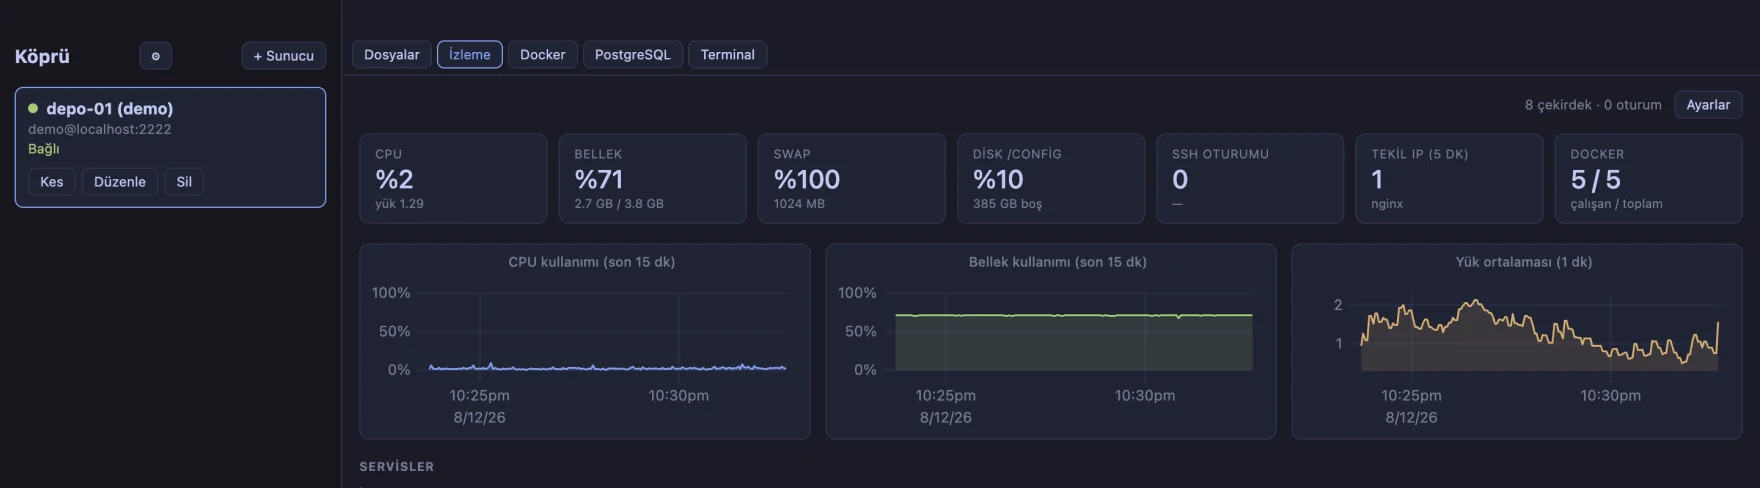
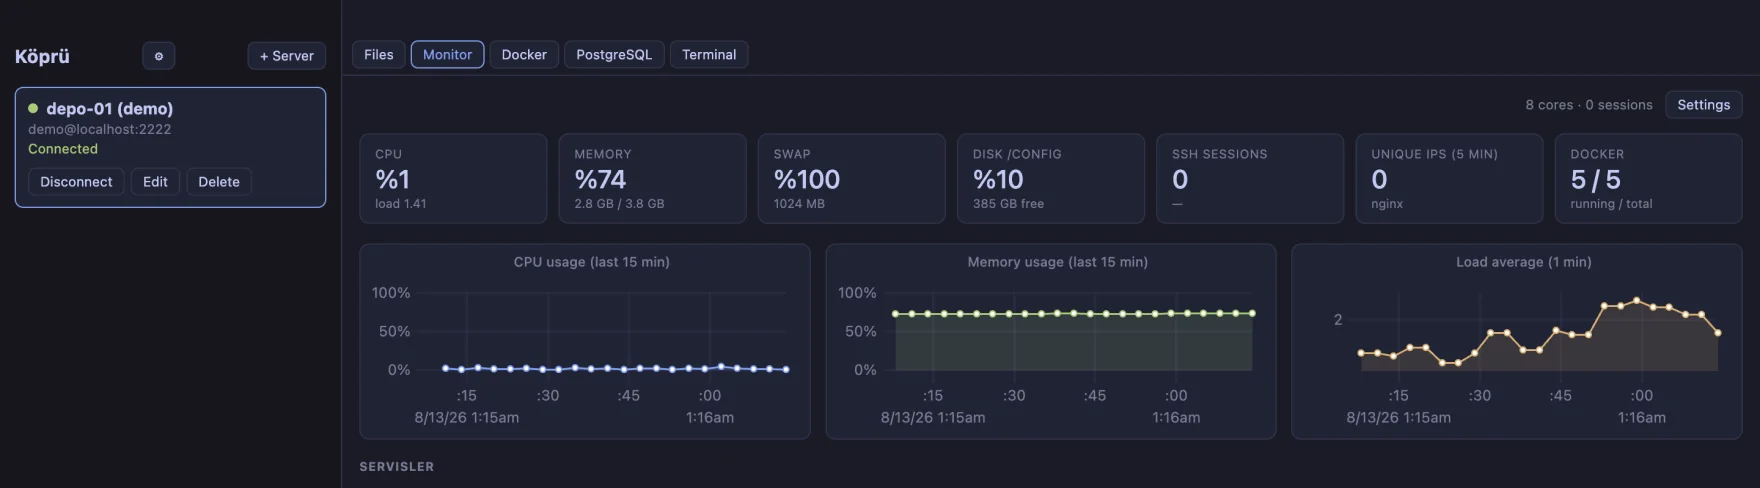
docs+i18n: İngilizce ekran görüntüleri ve son çeviri boşlukları
Depo İngilizce olduğu için ekran görüntüleri de İngilizce arayüzden
yeniden çekildi. Sunucudaki klasör ve tablo adları da İngilizce
(config/, backups/, products, stock_movements) — yarısı Türkçe bir
ekran, İngilizce README'de kopuk duruyordu.

Çekim sırasında yakalanan çeviri boşlukları kapatıldı:
- 'Yedek' sekmesi ve yedek alma metinleri
- Dosya tablosu başlıkları (Ad, Boyut), Yenile düğmesi
- Bağlam panelinde 'gizlendi', 'kr', 'Panoya kopyala', 'Temizle'
- Maskeleme TÜRLERİ (özel anahtar, kimlik bilgisi ataması…) — ortak
  koddaki adlar sözlük anahtarı olarak bırakıldı, gösterim yerinde
  çevriliyor
- Maskeleme ETİKETİ («KÖPRÜ: gizlendi» → redacted): kullanıcının yapay
  zekâya yapıştıracağı metne girdiği için dile uymalı. redact.ts hem ana
  süreçte hem arayüzde koştuğu ve ikisinin de hook'una erişemediği için
  dili bir kanca (redactDilKaynagi) üzerinden soruyor.

Bunların çoğunda Türkçe karakter yoktu (Ad, Boyut, Yedek, Kaydet), bu
yüzden aksan taraması onları kaçırdı. Kesin denetim çalışan uygulamada
yapıldı: İngilizce modda DOM'da kalan tek Türkçe metin uygulamanın kendi
adı.

diff --git a/src/shared/redact.ts b/src/shared/redact.ts
@@ -20,7 +20,30 @@ export interface RedactResult {
   total: number
 }
 
-const MASK = '«KÖPRÜ: gizlendi»'
+/**
+ * Maskeleme etiketi. Kullanıcının yapay zekâya YAPIŞTIRACAĞI metne girdiği
+ * için arayüz diliyle aynı olmalı — İngilizce bir oturumda Türkçe bir işaret
+ * görmek, metnin nereden geldiğini bulanıklaştırır.
+ *
+ * `cevir` doğrudan çağrılıyor: bu dosya hem ana süreçte hem arayüzde koşuyor
+ * ve ikisinin de hook'una erişemez.
+ */
+const MASK_KAYNAK = '«KÖPRÜ: gizlendi»'
+const MASK_EN = '«KÖPRÜ: redacted»'
+
+/**
+ * Aktif dili döndüren kanca. Ana süreç ve arayüz kendi diline bağlar; hiçbiri
+ * bağlamazsa Türkçe kalır — bu dosya dil bilgisi TAŞIMAZ, sorar.
+ */
+let dilKaynagi: () => 'tr' | 'en' = () => 'tr'
+
+export function redactDilKaynagi(kaynak: () => 'tr' | 'en'): void {
+  dilKaynagi = kaynak
+}
+
+function maske(): string {
+  return dilKaynagi() === 'en' ? MASK_EN : MASK_KAYNAK
+}
 
 interface Rule {
   kind: string
@@ -33,7 +56,7 @@ const RULES: Rule[] = [
     // Whole PEM block, not just the header — the key material is the payload.
     kind: 'özel anahtar',
     pattern: /-----BEGIN [A-Z ]*PRIVATE KEY-----[\s\S]*?-----END [A-Z ]*PRIVATE KEY-----/g,
-    replace: () => `-----BEGIN PRIVATE KEY-----\n${MASK}\n-----END PRIVATE KEY-----`,
+    replace: () => `-----BEGIN PRIVATE KEY-----\n${maske()}\n-----END PRIVATE KEY-----`,
   },
   {
     // KEY=value / KEY: value where the name reads like a credential. Captures
@@ -42,33 +65,33 @@ const RULES: Rule[] = [
     kind: 'kimlik bilgisi ataması',
     pattern:
       /^([ \t]*(?:export[ \t]+)?[A-Za-z0-9_.-]*(?:PASS|PWD|SECRET|TOKEN|APIKEY|API_KEY|PRIVATE|CREDENTIAL|AUTH)[A-Za-z0-9_.-]*)([ \t]*[:=][ \t]*)(.+)$/gim,
-    replace: (_match, name: string, sep: string) => `${name}${sep}${MASK}`,
+    replace: (_match, name: string, sep: string) => `${name}${sep}${maske()}`,
   },
   {
     kind: 'bağlantı dizesindeki parola',
     pattern: /\b([a-z][a-z0-9+.-]*:\/\/)([^\s:/@]+):([^\s@]+)@/gi,
-    replace: (_match, scheme: string, user: string) => `${scheme}${user}:${MASK}@`,
+    replace: (_match, scheme: string, user: string) => `${scheme}${user}:${maske()}@`,
   },
   {
     kind: 'yetkilendirme başlığı',
     pattern: /\b(Authorization\s*:\s*(?:Bearer|Basic|Token)\s+)\S+/gi,
-    replace: (_match, prefix: string) => `${prefix}${MASK}`,
+    replace: (_match, prefix: string) => `${prefix}${maske()}`,
   },
   {
     kind: 'AWS anahtarı',
     pattern: /\b(?:AKIA|ASIA)[0-9A-Z]{16}\b/g,
-    replace: () => MASK,
+    replace: () => maske(),
   },
   {
     kind: 'Anthropic/OpenAI anahtarı',
     pattern: /\bsk-[A-Za-z0-9_-]{20,}/g,
-    replace: () => MASK,
+    replace: () => maske(),
   },
   {
     // psql/mysql style flags where the value follows on the same line.
     kind: 'komut satırı parolası',
     pattern: /(--password[= ]|-p(?=\S)|PGPASSWORD=)(\S+)/g,
-    replace: (_match, flag: string) => `${flag}${MASK}`,
+    replace: (_match, flag: string) => `${flag}${maske()}`,
   },
 ]
 
@@ -85,7 +108,10 @@ export function redact(text: string, sourcePath?: string): RedactResult {
   if (sourcePath !== undefined && isSecretFile(sourcePath)) {
     const lines = text.split('\n').filter((line) => line.trim() !== '').length
     return {
-      text: `${MASK}\n(bu dosyanın tamamı gizli kabul edildi — ${String(lines)} satır gönderilmedi)`,
+      text:
+        dilKaynagi() === 'en'
+          ? `${maske()}\n(the whole file was treated as secret — ${String(lines)} lines were not sent)`
+          : `${maske()}\n(bu dosyanın tamamı gizli kabul edildi — ${String(lines)} satır gönderilmedi)`,
       redactions: [{ kind: 'gizli dosya', count: 1 }],
       total: 1,
     }

diff --git a/src/shared/i18n-en.ts b/src/shared/i18n-en.ts
@@ -13,6 +13,22 @@ import { ekle } from './i18n.js'
 
 ekle({
   // ── Genel ───────────────────────────────────────────────────────────
+  'Yedek': 'Backup',
+  'Yedek al': 'Take a backup',
+  'Yedek alınıyor…': 'Backing up…',
+  '{db} yedeğini al ve indir': 'Back up {db} and download it',
+  'Kaydet': 'Save',
+  'Kaydet (⌘S)': 'Save (⌘S)',
+  'Kaydediliyor…': 'Saving…',
+  'Ekle': 'Add',
+  'Yeni ad': 'New name',
+  'Ad': 'Name',
+  'Yenile': 'Refresh',
+  'Panoya kopyala': 'Copy to clipboard',
+  'Temizle': 'Clear',
+  'Boyut': 'Size',
+  'Sayaçlar son istatistik sıfırlamasından beri geçerlidir. Yeni eklenmiş bir indeks de burada görünebilir — silmeden önce bunu göz önünde bulundurun.':
+    'The counters are since the last statistics reset. A freshly added index can show up here too — bear that in mind before dropping one.',
   'Yükleniyor…': 'Loading…',
   'Hesaplanıyor…': 'Calculating…',
   'Çalışıyor…': 'Running…',
@@ -265,6 +281,19 @@ ekle({
     'The running query in session {pid} will be cancelled. The session stays open.\n\nContinue?',
 
   // ── Bağlam köprüsü ──────────────────────────────────────────────────
+  // Maskeleme türleri — `src/shared/redact.ts` içindeki `kind` alanları.
+  // Ortak kodda TÜRKÇE bırakılıp gösterim yerinde çevriliyor: redact.ts hem
+  // ana süreçte hem arayüzde çalışıyor ve dil bilgisi taşımamalı.
+  'özel anahtar': 'private key',
+  'kimlik bilgisi ataması': 'credential assignment',
+  'bağlantı dizesindeki parola': 'password in connection string',
+  'yetkilendirme başlığı': 'authorization header',
+  'AWS anahtarı': 'AWS key',
+  'Anthropic/OpenAI anahtarı': 'Anthropic/OpenAI key',
+  'komut satırı parolası': 'command-line password',
+  'gizli dosya': 'secret file',
+  '{n} gizlendi': '{n} redacted',
+  '{n} kr': '{n} chars',
   'Claude bağlamı ({n})': 'Claude context ({n})',
   'Claude’a gönder': 'Send to Claude',
   '“Claude’a gönder”': '“Send to Claude”',

diff --git a/src/renderer/features/context/ContextPanel.tsx b/src/renderer/features/context/ContextPanel.tsx
@@ -53,7 +53,7 @@ export function ContextPanel({ profileId }: Props): React.JSX.Element | null {
     <div className={`ctx ${open ? 'ctx--open' : ''}`}>
       <button type="button" className="ctx__toggle" onClick={() => { setOpen(!open) }}>
         {t('Claude bağlamı ({n})', { n: items.length })}
-        {totalRedactions > 0 && <em className="ctx__redacted">{String(totalRedactions)} gizlendi</em>}
+        {totalRedactions > 0 && <em className="ctx__redacted">{t('{n} gizlendi', { n: totalRedactions })}</em>}
         <span>{open ? '▾' : '▴'}</span>
       </button>
 
@@ -75,7 +75,7 @@ export function ContextPanel({ profileId }: Props): React.JSX.Element | null {
                   onClick={() => { setExpanded(expanded === item.id ? null : item.id) }}
                 >
                   {KIND_ICON[item.kind] ?? '•'} {item.label}
-                  <em>{String(item.content.length)} kr</em>
+                  <em>{t('{n} kr', { n: item.content.length })}</em>
                 </button>
                 <button type="button" onClick={() => { remove(item.id) }}>✕</button>
               </div>
@@ -83,7 +83,7 @@ export function ContextPanel({ profileId }: Props): React.JSX.Element | null {
               {item.redactions.length > 0 && (
                 <p className="ctx__warn">
                   {t('Çıkarıldı:')}{' '}
-                  {item.redactions.map((r) => `${r.kind} ×${String(r.count)}`).join(', ')}
+                  {item.redactions.map((r) => `${t(r.kind)} ×${String(r.count)}`).join(', ')}
                 </p>
               )}
 
@@ -111,9 +111,9 @@ export function ContextPanel({ profileId }: Props): React.JSX.Element | null {
 
           <div className="row">
             <button type="button" onClick={() => void copy()} disabled={items.length === 0}>
-              Panoya kopyala
+              {t('Panoya kopyala')}
             </button>
-            <button type="button" onClick={clear} disabled={items.length === 0}>Temizle</button>
+            <button type="button" onClick={clear} disabled={items.length === 0}>{t('Temizle')}</button>
           </div>
 
           {status !== null && <p className="hint">{status}</p>}

diff --git a/src/renderer/features/files/FileBrowser.tsx b/src/renderer/features/files/FileBrowser.tsx
@@ -140,7 +140,7 @@ export function FileBrowser({ profile }: Props): React.JSX.Element {
       window.kopru.invoke('transfer:download', { profileId, remotePaths: [entry.path] }).catch(fail)
     },
     rename: (entry: DirEntry) => {
-      void ask({ title: 'Yeni ad', detail: entry.path, defaultValue: entry.name }).then((next) => {
+      void ask({ title: t('Yeni ad'), detail: entry.path, defaultValue: entry.name }).then((next) => {
         if (next === null || next === entry.name) return
         window.kopru
           .invoke('fs:rename', {
@@ -165,7 +165,7 @@ export function FileBrowser({ profile }: Props): React.JSX.Element {
         title: t('Kısayol adı'),
         detail: target,
         defaultValue: target.split('/').filter(Boolean).at(-1) ?? target,
-        confirmLabel: 'Ekle',
+        confirmLabel: t('Ekle'),
       }).then((label) => {
         if (label === null) return
         window.kopru
@@ -258,7 +258,7 @@ export function FileBrowser({ profile }: Props): React.JSX.Element {
       <div className="files__toolbar">
         <button type="button" onClick={() => { void store.navigate(profileId, parentOf(path)) }}>↑</button>
         <Breadcrumb path={path} onNavigate={(p) => { void store.navigate(profileId, p) }} />
-        <button type="button" onClick={refresh}>Yenile</button>
+        <button type="button" onClick={refresh}>{t('Yenile')}</button>
         <button type="button" onClick={() => { void store.toggleHidden(profileId) }}>
           {showHidden ? t('Gizlileri sakla') : t('Gizlileri göster')}
         </button>
@@ -308,7 +308,7 @@ export function FileBrowser({ profile }: Props): React.JSX.Element {
 
           <table className="file-table">
             <thead>
-              <tr><th>Ad</th><th>Boyut</th><th>{t('Değiştirilme')}</th><th>{t('İzinler')}</th></tr>
+              <tr><th>{t('Ad')}</th><th>{t('Boyut')}</th><th>{t('Değiştirilme')}</th><th>{t('İzinler')}</th></tr>
             </thead>
             <tbody>
               {entries.map((entry) => (

diff --git a/src/renderer/features/postgres/PostgresPanel.tsx b/src/renderer/features/postgres/PostgresPanel.tsx
@@ -114,9 +114,9 @@ function TableView({
           <table className="file-table">
             <thead>
               <tr>
-                <th>Ad</th>
+                <th>{t('Ad')}</th>
                 <th>Tarama</th>
-                <th>Boyut</th>
+                <th>{t('Boyut')}</th>
                 <th>{t('Tanım')}</th>
               </tr>
             </thead>
@@ -318,7 +318,7 @@ export function PostgresPanel({ profile }: { profile: Profile }): React.JSX.Elem
               setTab('backup')
             }}
           >
-            Yedek
+            {t('Yedek')}
           </button>
         </div>
       </div>
@@ -350,13 +350,13 @@ export function PostgresPanel({ profile }: { profile: Profile }): React.JSX.Elem
 
       {tab === 'backup' && (
         <div className="section">
-          <h4>Yedek al</h4>
+          <h4>{t('Yedek al')}</h4>
           <p className="hint">
             Sunucuda <code>pg_dump -Fc</code> çalıştırılır, oluşan dosya SFTP ile Mac’inize
             indirilir. İlerleme alttaki aktarım kuyruğunda görünür.
           </p>
           <button type="button" disabled={busy} onClick={() => void backup()}>
-            {busy ? 'Yedek alınıyor…' : `${database} yedeğini al ve indir`}
+            {busy ? t('Yedek alınıyor…') : t('{db} yedeğini al ve indir', { db: database })}
           </button>
           <p className="hint">
             {t('Geri yükleme bu sürümde')} <strong>yok</strong>. Yanlışlıkla yapılan bir geri yükleme,

diff --git a/src/renderer/stores/dil.ts b/src/renderer/stores/dil.ts
@@ -1,6 +1,7 @@
 import { create } from 'zustand'
 import { cevir, type Dil } from '@shared/i18n.js'
 import '@shared/i18n-en.js'
+import { redactDilKaynagi } from '@shared/redact.js'
 
 /**
  * Interface language.
@@ -49,6 +50,8 @@ export function useT(): (kaynak: string, degerler?: Record<string, string | numb
 
 /** Startup: apply the language to <html lang> and tell main about it. */
 export function dilBaslat(): void {
+  // Maskeleme etiketi kullanıcının yapıştıracağı metne giriyor; o da dile uymalı.
+  redactDilKaynagi(() => useDilStore.getState().dil)
   const dil = useDilStore.getState().dil
   document.documentElement.lang = dil
   window.kopru.send('dil:degisti', { dil })

diff --git a/src/renderer/features/profiles/ProfileForm.tsx b/src/renderer/features/profiles/ProfileForm.tsx
@@ -63,7 +63,7 @@ export function ProfileForm({ editing, onDone }: Props): React.JSX.Element {
       <h2>{editing ? t('Sunucuyu düzenle') : t('Yeni sunucu')}</h2>
 
       <label>
-        Ad
+        {t('Ad')}
         <input
           value={name}
           onChange={(e) => {
@@ -228,7 +228,7 @@ export function ProfileForm({ editing, onDone }: Props): React.JSX.Element {
 
       <div className="row">
         <button type="submit" disabled={busy}>
-          {busy ? 'Kaydediliyor…' : 'Kaydet'}
+          {busy ? t('Kaydediliyor…') : t('Kaydet')}
         </button>
         <button type="button" onClick={onDone}>
           {t('Vazgeç')}

diff --git a/src/renderer/features/files/MonacoEditor.tsx b/src/renderer/features/files/MonacoEditor.tsx
@@ -184,9 +184,9 @@ export function MonacoEditor({ profileId, file, onClose }: Props): React.JSX.Ele
         {file.readOnlyForUser && <span className="badge">yazma izni yok — sudo gerekir</span>}
         <span className="editor__status">{status}</span>
         <button type="button" disabled={saving} onClick={() => void save(false, false)}>
-          Kaydet (⌘S)
+          {t('Kaydet (⌘S)')}
         </button>
-        <button type="button" onClick={close}>Kapat</button>
+        <button type="button" onClick={close}>{t('Kapat')}</button>
       </header>
       <div ref={hostRef} className="editor__host" />
     </div>

diff --git a/src/renderer/features/files/ShortcutList.tsx b/src/renderer/features/files/ShortcutList.tsx
@@ -64,7 +64,7 @@ export function ShortcutList({
       title: t('Kısayol adı'),
       detail: currentPath,
       defaultValue: suggested,
-      confirmLabel: 'Ekle',
+      confirmLabel: t('Ekle'),
     }).then((label) => {
       if (label === null) return
       persist([...shortcuts, { id: newId(), label, path: currentPath }])
@@ -73,7 +73,7 @@ export function ShortcutList({
 
   const rename = (shortcut: Shortcut): void => {
     void ask({
-      title: 'Yeni ad',
+      title: t('Yeni ad'),
       detail: shortcut.path,
       defaultValue: shortcut.label,
     }).then((label) => {

diff --git a/src/renderer/features/postgres/HealthTab.tsx b/src/renderer/features/postgres/HealthTab.tsx
@@ -161,8 +161,7 @@ export function HealthTab({ profileId, database }: Props): React.JSX.Element {
               </tbody>
             </table>
             <p className="hint">
-              Sayaçlar son istatistik sıfırlamasından beri geçerlidir. Yeni eklenmiş bir
-              indeks de burada görünebilir — silmeden önce bunu göz önünde bulundurun.
+              {t('Sayaçlar son istatistik sıfırlamasından beri geçerlidir. Yeni eklenmiş bir indeks de burada görünebilir — silmeden önce bunu göz önünde bulundurun.')}
             </p>
           </>
         )}

diff --git a/src/main/i18n.ts b/src/main/i18n.ts
@@ -1,5 +1,6 @@
 import { cevir, type Dil } from '../shared/i18n.js'
 import '../shared/i18n-en.js'
+import { redactDilKaynagi } from '../shared/redact.js'
 
 /**
  * Language for main-process text: native dialogs and the error messages that
@@ -15,6 +16,9 @@ let aktif: Dil = 'tr'
 export function dilAyarla(dil: Dil): void {
   aktif = dil
 }
+
+// Maskeleme etiketi de aynı dili izler.
+redactDilKaynagi(() => aktif)
 
 export function dilAl(): Dil {
   return aktif

diff --git a/src/renderer/features/monitor/MonitorSettings.tsx b/src/renderer/features/monitor/MonitorSettings.tsx
@@ -119,7 +119,7 @@ export function MonitorSettings({ profile, onClose }: Props): React.JSX.Element 
         </div>
 
         <div className="row">
-          <button type="button" onClick={() => void apply()}>Kaydet</button>
+          <button type="button" onClick={() => void apply()}>{t('Kaydet')}</button>
           <button type="button" onClick={onClose}>{t('Vazgeç')}</button>
         </div>
         <p className="hint">
